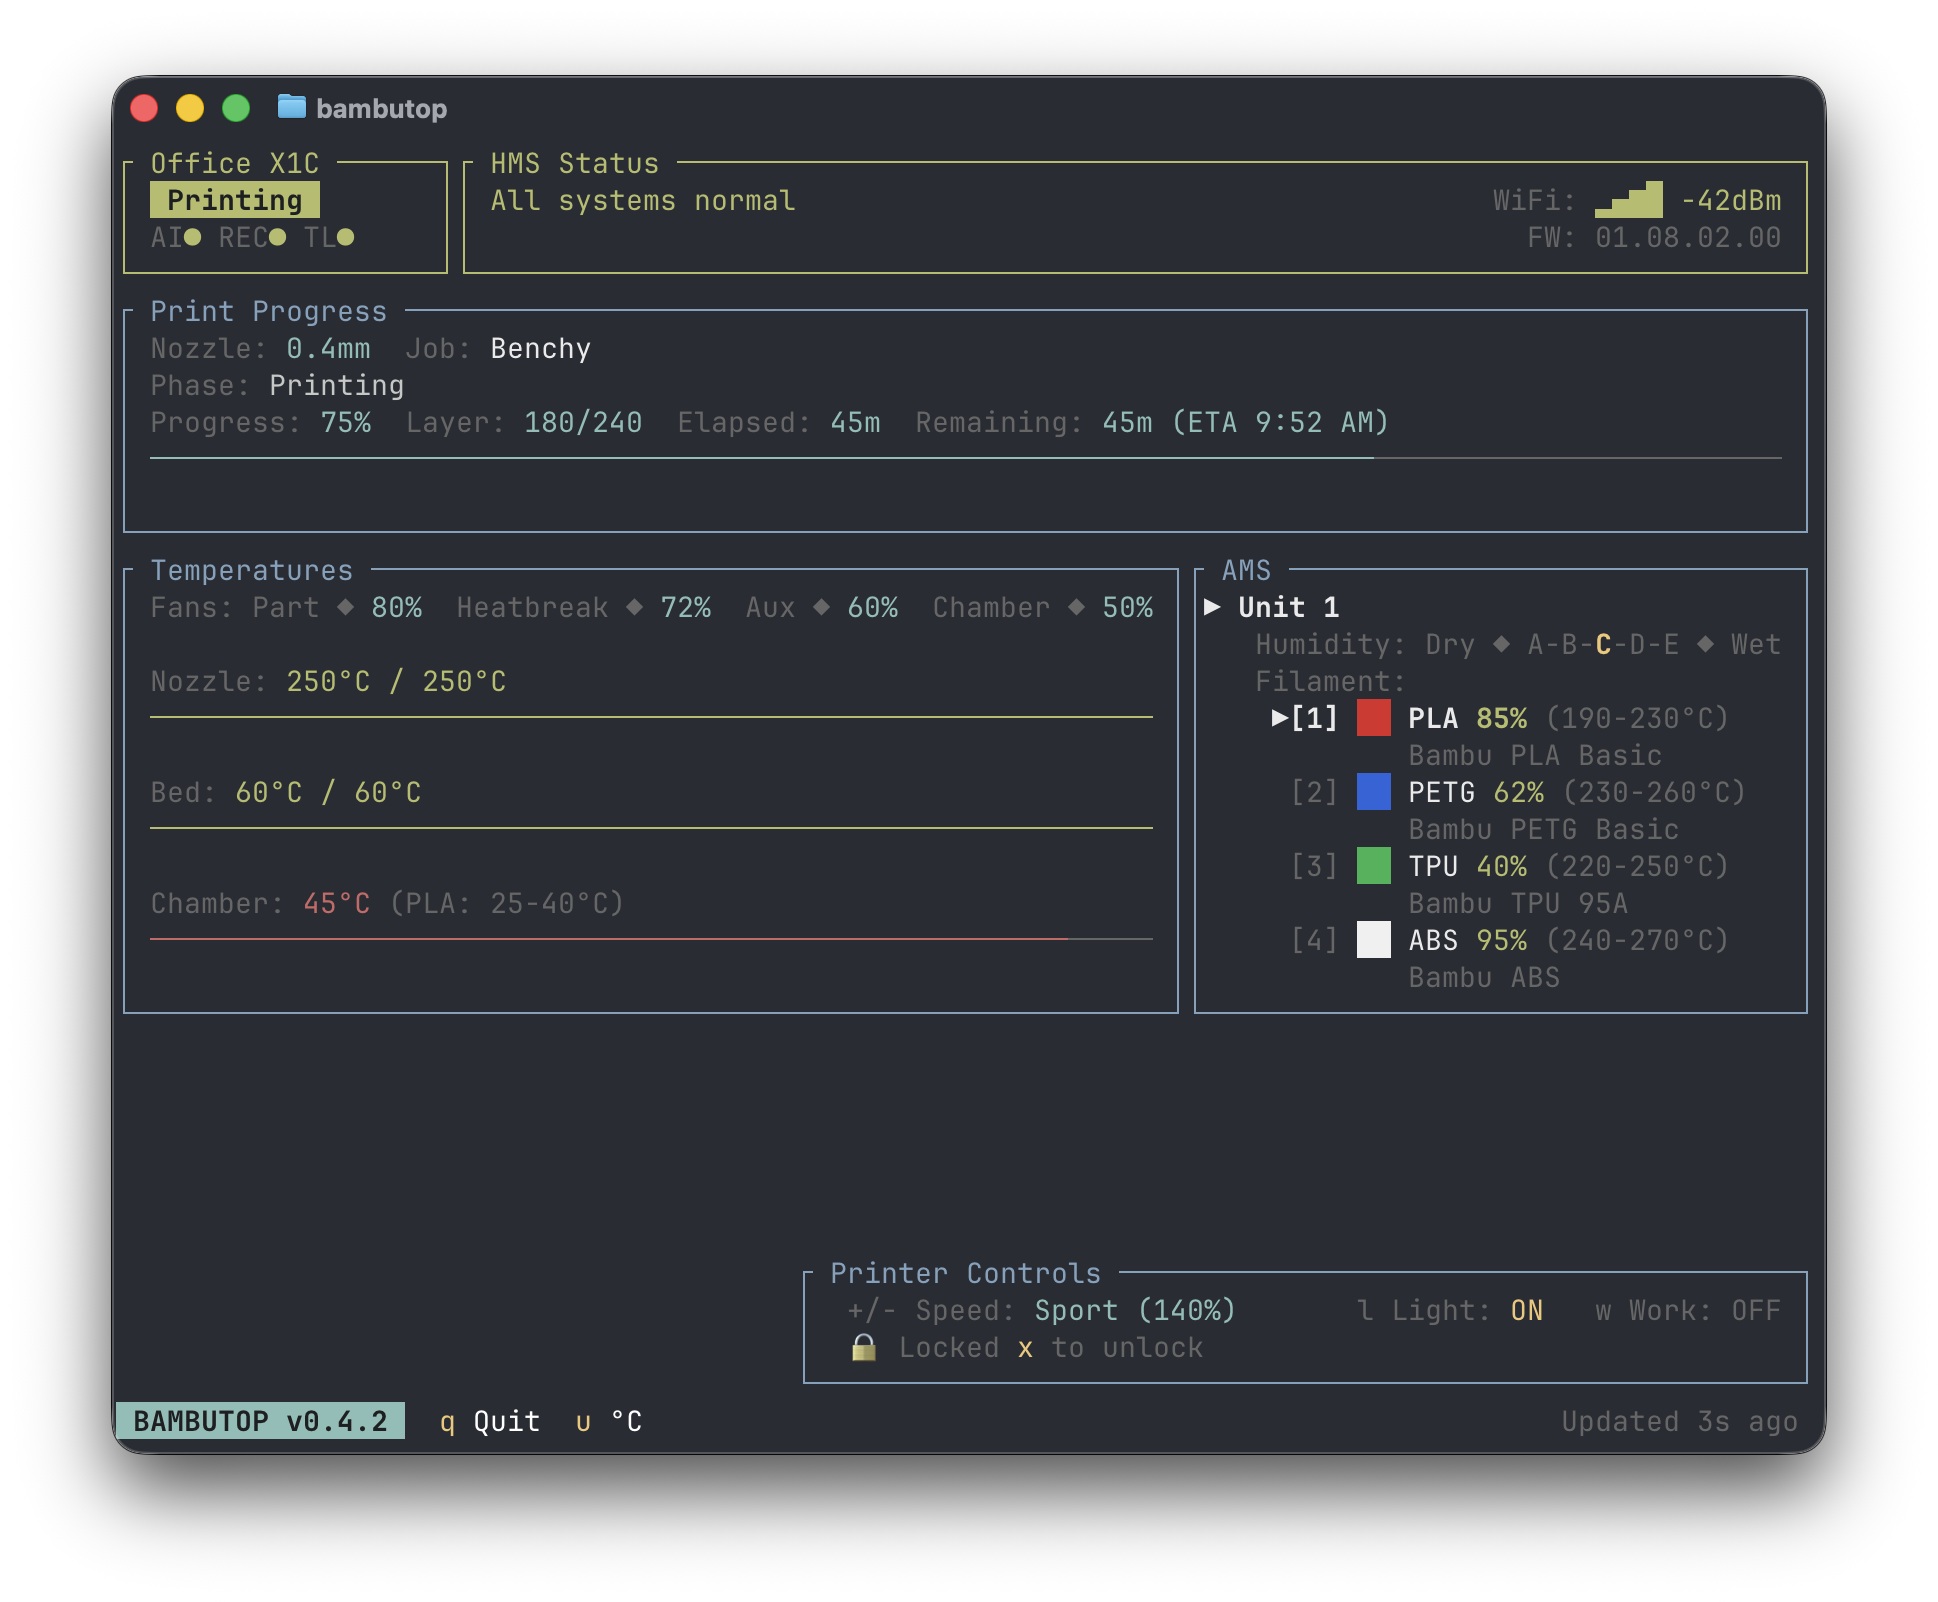
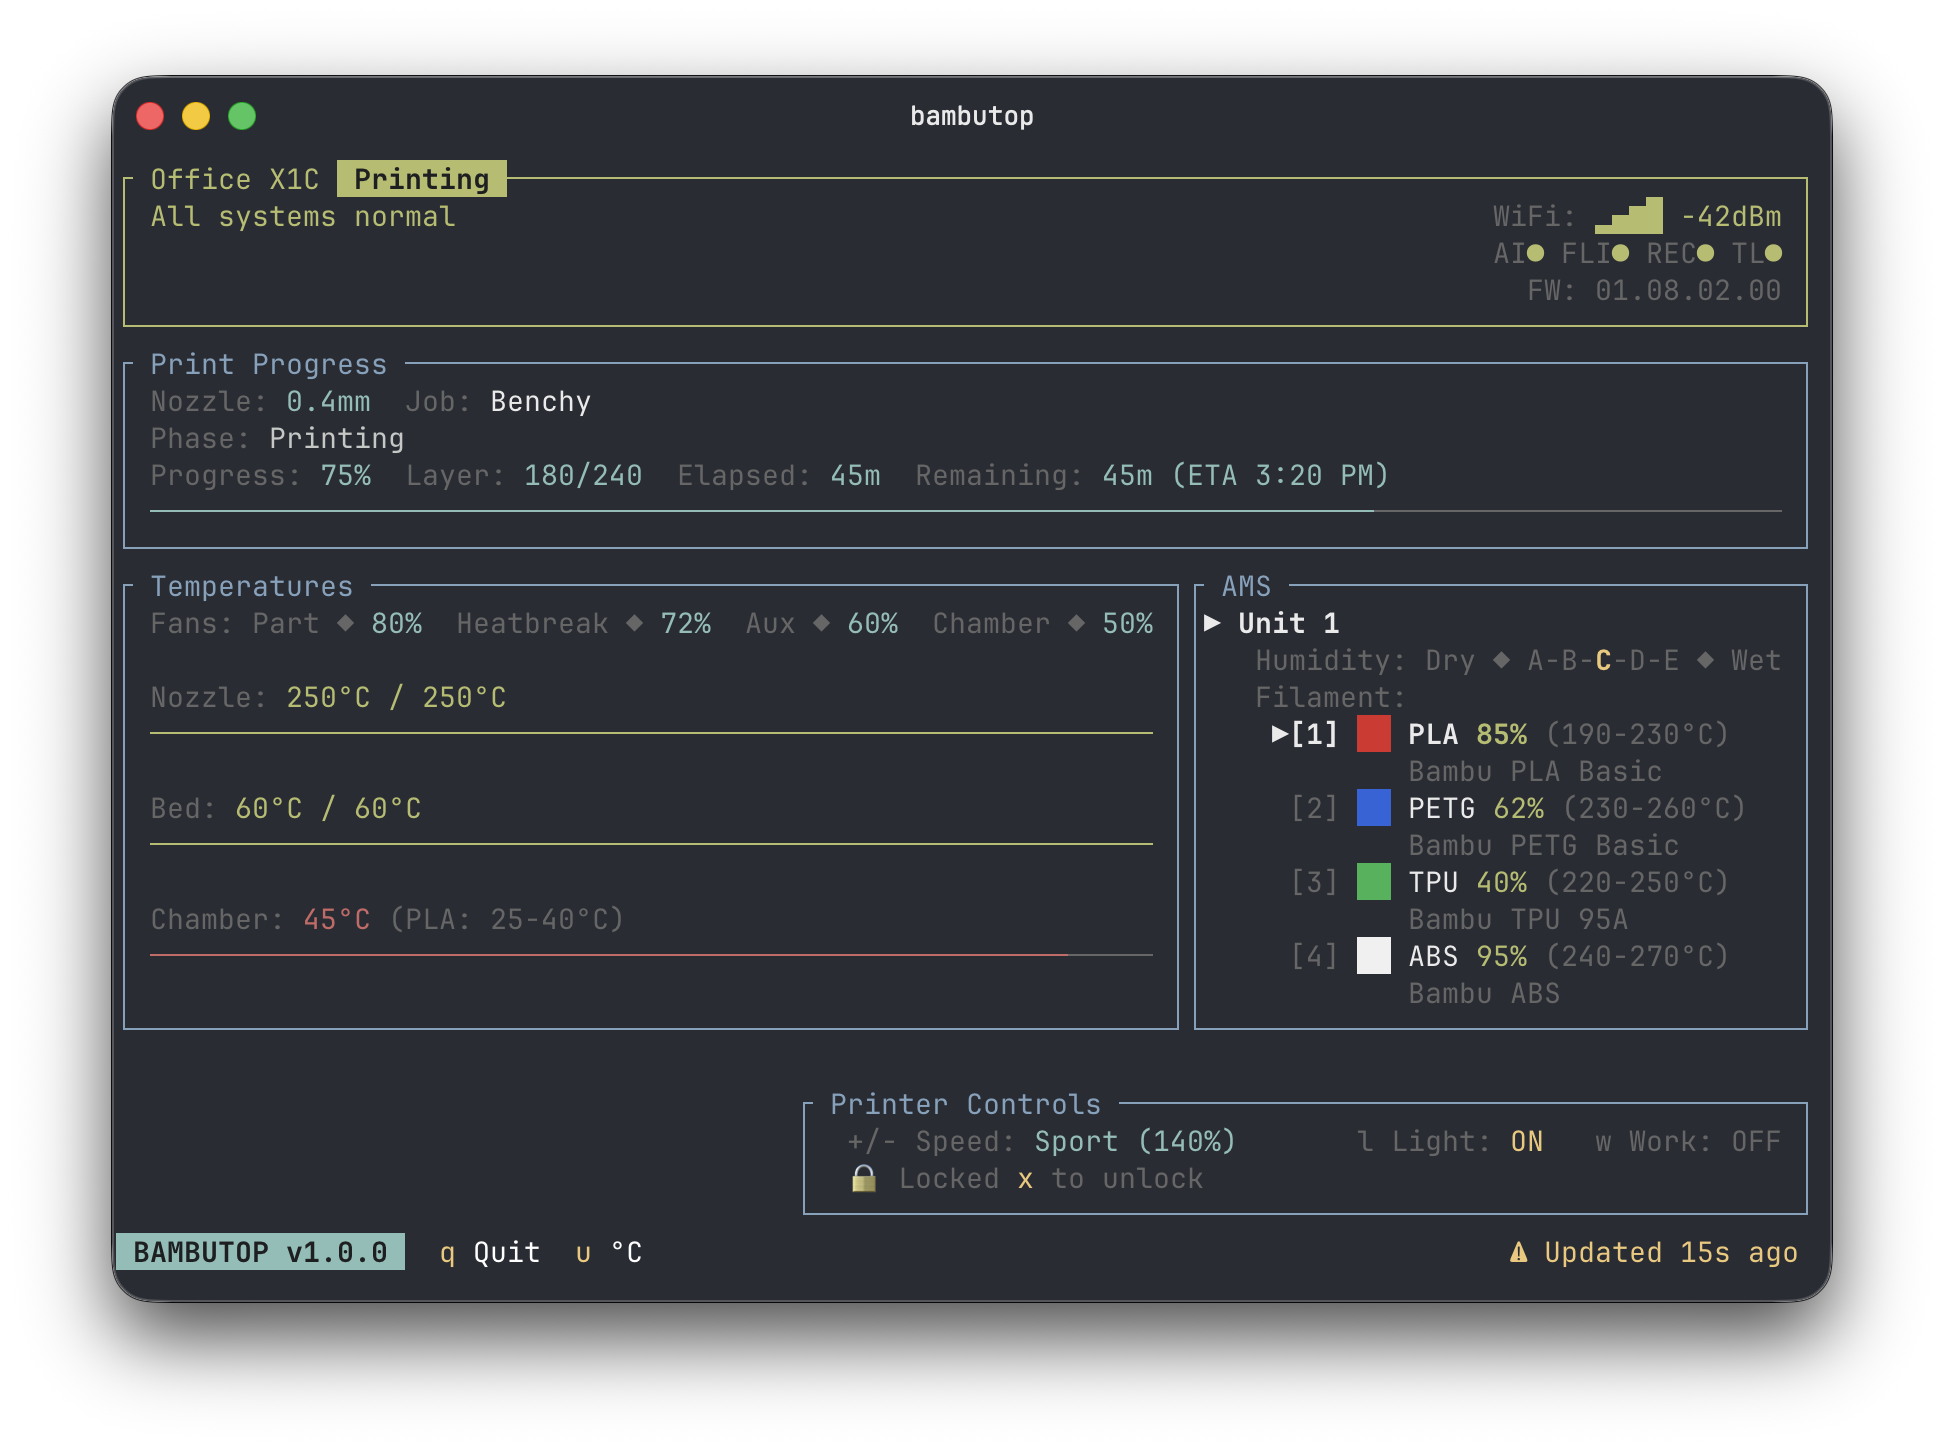
docs: update screenshots and cache-bust for v1.0.0 (#21)

diff --git a/README.md b/README.md
@@ -4,8 +4,8 @@
 
 A terminal-based status monitor for Bambu Lab printers. `htop`, but for your 3D printer.
 
-![BambuTop Detail View](screenshot-detail.png?v=3)
-![BambuTop Aggregate View](screenshot-aggregate.png?v=3)
+![BambuTop Detail View](screenshot-detail.png?v=4)
+![BambuTop Aggregate View](screenshot-aggregate.png?v=4)
 
 ## Features
 
